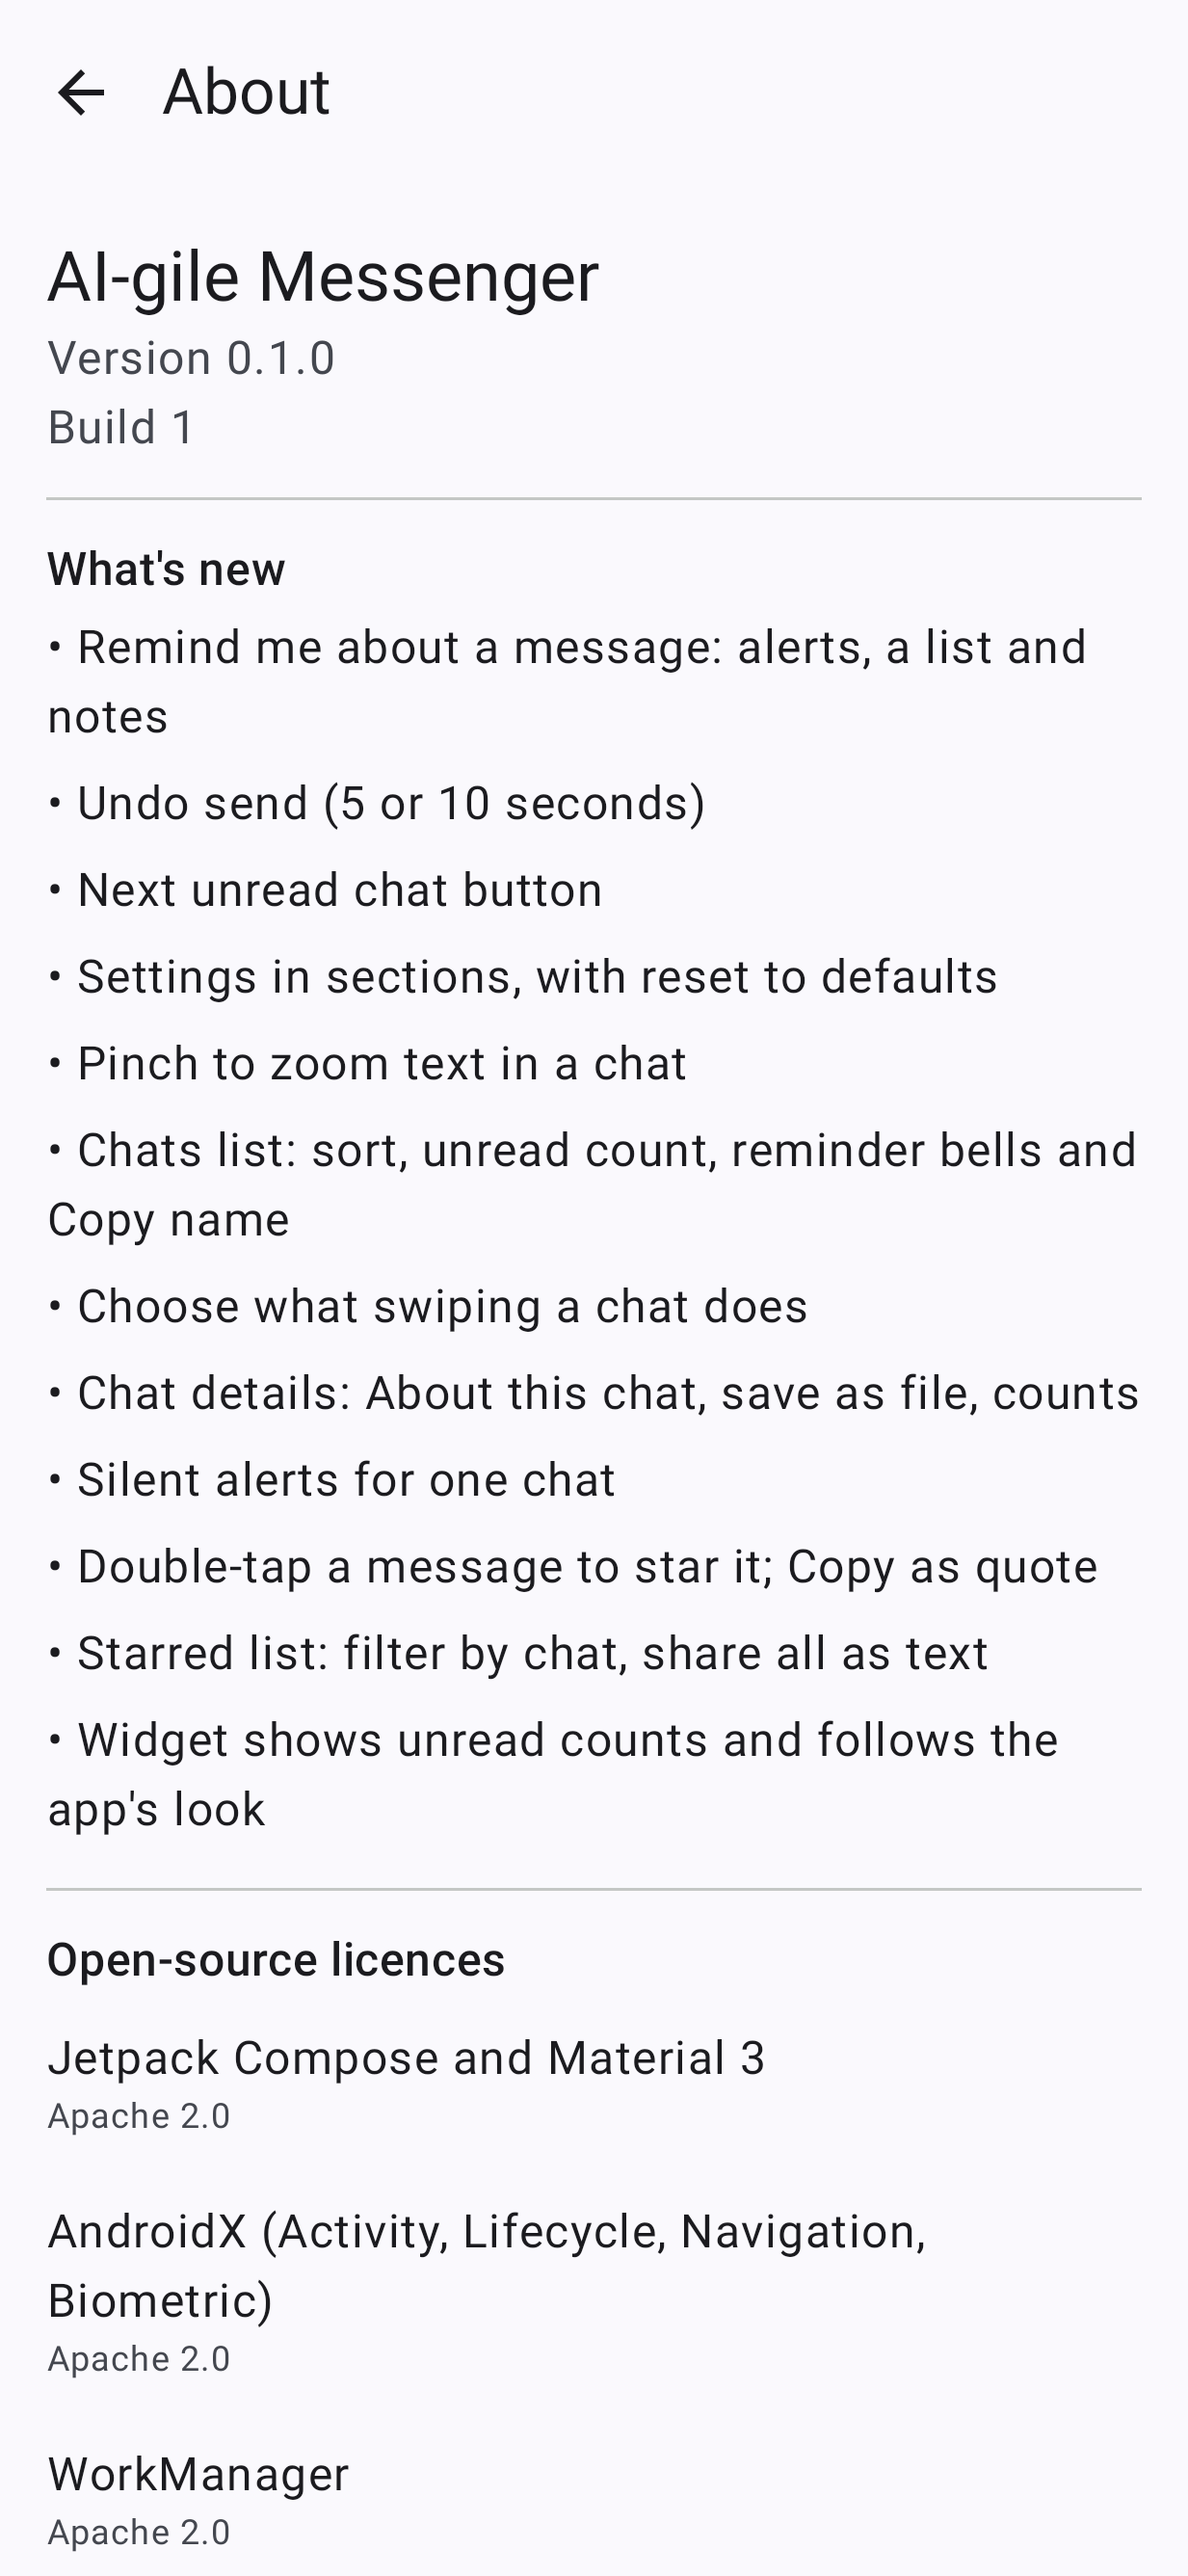
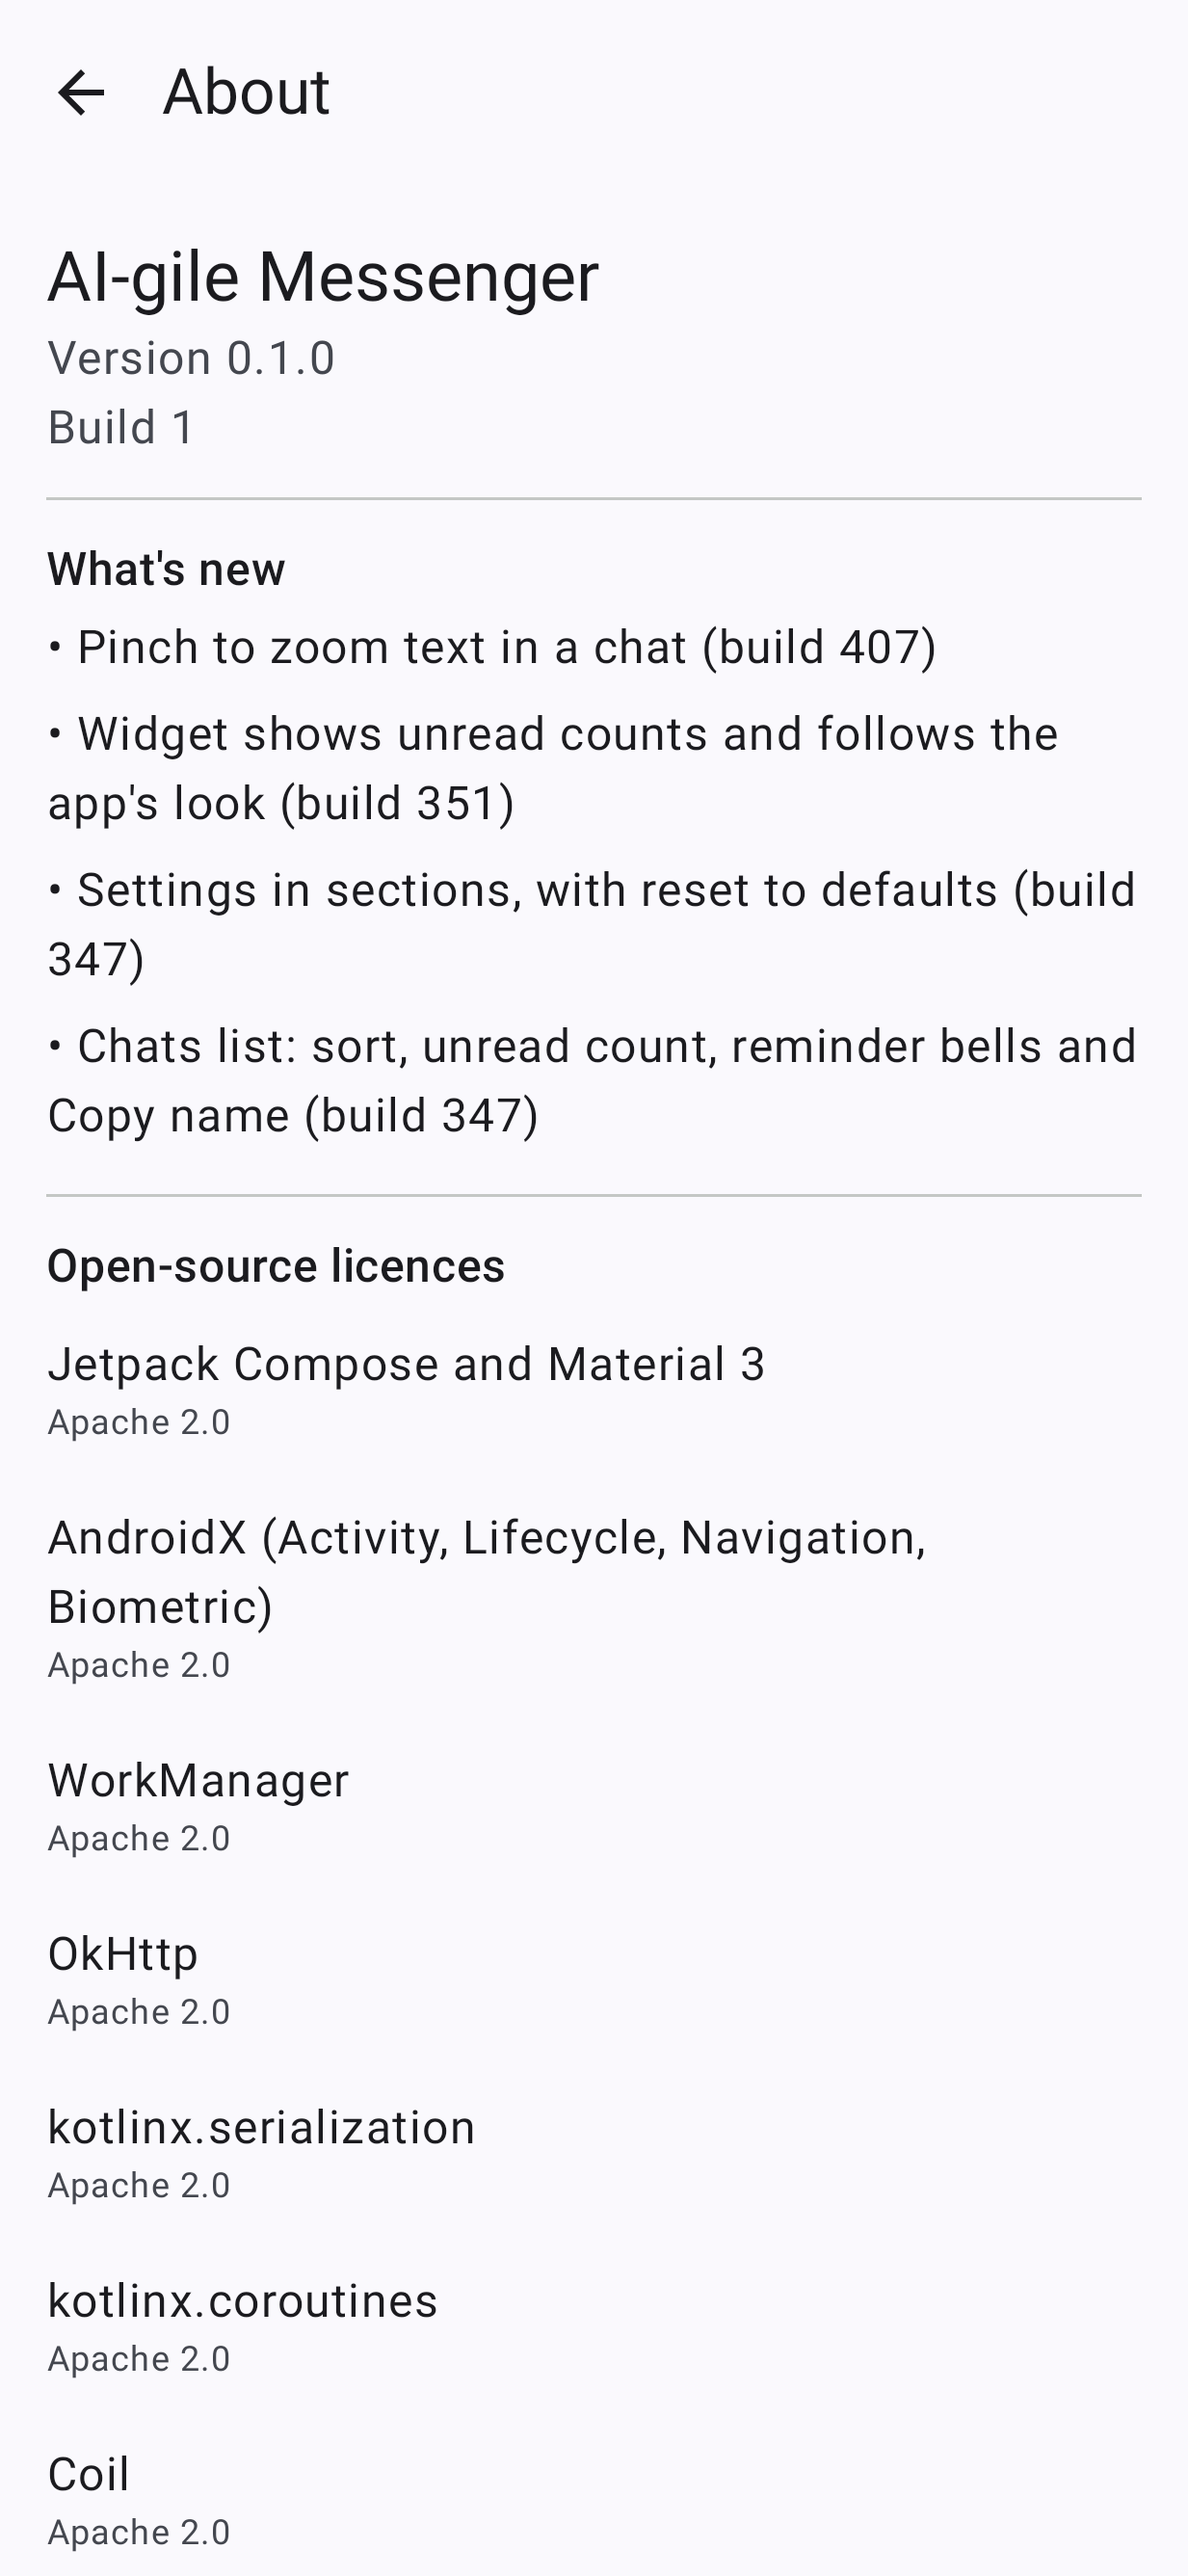
About: What's new shows each line's build and keeps the 3 newest builds (AII-271)

diff --git a/app/src/main/java/com/smizflark/aigile/messenger/ui/AboutScreen.kt b/app/src/main/java/com/smizflark/aigile/messenger/ui/AboutScreen.kt
@@ -44,23 +44,29 @@ val LICENCES = listOf(
 )
 
 /**
- * What's new (AII-261), newest first, at most about 15 lines. To add one: put its id at the TOP of this list
- * and add the English and Dutch string to values/strings.xml and values-nl/strings.xml.
+ * What's new (AII-261); About shows only the 3 newest builds (AII-271). To add one: put its id at the TOP of this list
+ * as `R.string.new_x to <build number it came in>`, and add the English and Dutch string to values/strings.xml and values-nl/strings.xml.
  */
-val WHATS_NEW = listOf(
-    R.string.new_remind,
-    R.string.new_undo,
-    R.string.new_next_unread,
-    R.string.new_settings,
-    R.string.new_pinch,
-    R.string.new_chat_list,
-    R.string.new_swipe,
-    R.string.new_details,
-    R.string.new_silent,
-    R.string.new_star,
-    R.string.new_starred,
-    R.string.new_widget,
+val WHATS_NEW: List<Pair<Int, Int>> = listOf(
+    R.string.new_remind to 308,
+    R.string.new_undo to 308,
+    R.string.new_next_unread to 308,
+    R.string.new_settings to 347,
+    R.string.new_pinch to 407,
+    R.string.new_chat_list to 347,
+    R.string.new_swipe to 316,
+    R.string.new_details to 308,
+    R.string.new_silent to 310,
+    R.string.new_star to 308,
+    R.string.new_starred to 209,
+    R.string.new_widget to 351,
 )
+
+/** AII-271: the lines from the [keep] newest builds in [lines], newest build first. */
+fun whatsNewShown(lines: List<Pair<Int, Int>> = WHATS_NEW, keep: Int = 3): List<Pair<Int, Int>> {
+    val builds = lines.map { it.second }.distinct().sortedDescending().take(keep).toSet()
+    return lines.filter { it.second in builds }.sortedByDescending { it.second }
+}
 
 /** About (AII-220): app name, version and the open-source licences; tap one to read it in the browser. */
 @OptIn(ExperimentalMaterial3Api::class)
@@ -79,7 +85,7 @@ fun AboutScreen(onBack: () -> Unit, build: Int = BuildConfig.VERSION_CODE) {
             Text(stringResource(R.string.build_number, build), color = MaterialTheme.colorScheme.onSurfaceVariant)
             HorizontalDivider(Modifier.padding(vertical = 12.dp))
             Text(stringResource(R.string.whats_new), style = MaterialTheme.typography.titleMedium)
-            WHATS_NEW.forEach { Text("• " + stringResource(it), Modifier.padding(vertical = 3.dp).testTag("whats_new")) }
+            whatsNewShown().forEach { (line, since) -> Text("• " + stringResource(line) + " (" + stringResource(R.string.new_build, since) + ")", Modifier.padding(vertical = 3.dp).testTag("whats_new")) }
             HorizontalDivider(Modifier.padding(vertical = 12.dp))
             Text(stringResource(R.string.licences), style = MaterialTheme.typography.titleMedium)
             LICENCES.forEach { l ->

diff --git a/app/src/test/java/com/smizflark/aigile/messenger/WhatsNewTest.kt b/app/src/test/java/com/smizflark/aigile/messenger/WhatsNewTest.kt
@@ -1,0 +1,25 @@
+package com.smizflark.aigile.messenger
+
+import com.smizflark.aigile.messenger.ui.WHATS_NEW
+import com.smizflark.aigile.messenger.ui.whatsNewShown
+import org.junit.Assert.assertEquals
+import org.junit.Assert.assertTrue
+import org.junit.Test
+
+class WhatsNewTest {
+    @Test fun keepsOnlyTheThreeNewestBuildsNewestFirst() {
+        val lines = listOf(1 to 300, 2 to 410, 3 to 350, 4 to 300, 5 to 200, 6 to 350)
+        assertEquals(listOf(2 to 410, 3 to 350, 6 to 350, 1 to 300, 4 to 300), whatsNewShown(lines))
+    }
+
+    @Test fun fewerBuildsThanKeepShowsThemAll() {
+        assertEquals(listOf(2 to 20, 1 to 10), whatsNewShown(listOf(1 to 10, 2 to 20)))
+    }
+
+    @Test fun theRealListShowsSomethingAndNothingOld() {
+        val shown = whatsNewShown()
+        assertTrue(shown.isNotEmpty())
+        assertTrue(shown.map { it.second }.distinct().size <= 3)
+        assertEquals(WHATS_NEW.maxOf { it.second }, shown.first().second)
+    }
+}
